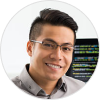
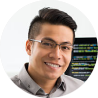
Стилизовал изображение юзера на главной, стилизация кнопки назад

diff --git a/src/pages/User.js b/src/pages/User.js
@@ -3,6 +3,20 @@ import UserProfile from '../components/UserProfile';
 import BackLink from '../components/BackLink';
 import gql from 'graphql-tag';
 import { Query } from 'react-apollo';
+import styled from 'styled-components';
+
+const StyledUser = styled.div`
+  position: relative;
+  display: flex;
+  justify-content: center;
+  min-height: 100vh;
+  background-color: #fff;
+
+  .user-inner {
+    padding-top: 80px;
+    width: 500px;
+  }
+`;
 
 const GET_USER = gql`
   query User($id: Int!) {
@@ -23,15 +37,16 @@ const User = ({ match }) => {
   const id = parseInt(match.params.id, 10);
 
   return (
-    <div>
+    <StyledUser>
       <BackLink />
-      {/* TODO следать заглушку когда вводим id типа строка или не валидное число */}
-      <Query query={GET_USER} variables={{ id }}>
-        {({ loading, data }) => {
-          return loading ? null : <UserProfile user={data.user} />;
-        }}
-      </Query>
-    </div>
+      <div className="user-inner">
+        <Query query={GET_USER} variables={{ id }}>
+          {({ loading, data }) => {
+            return loading ? null : <UserProfile user={data.user} />;
+          }}
+        </Query>
+      </div>
+    </StyledUser>
   );
 };
 

diff --git a/src/components/BackLink.js b/src/components/BackLink.js
@@ -1,11 +1,41 @@
 import React from 'react';
 import { Link } from 'react-router-dom';
+import styled from 'styled-components';
+import BackIcon from './BackIcon';
+
+const StyledBackLink = styled.div`
+  position: absolute;
+  left: 40px;
+  top: 30px;
+
+  a {
+    display: flex;
+    align-items: center;
+    text-decoration: none;
+    color: #000;
+  }
+
+  .back-icon {
+    margin-right: 10px;
+  }
+
+  .back-text {
+    font-weight: 700;
+    font-size: 18px;
+    line-height: 21px;
+  }
+`;
 
 const BackLink = props => {
   return (
-    <Link to="/">
-      <div>Back</div>
-    </Link>
+    <StyledBackLink>
+      <Link to="/">
+        <div className="back-icon">
+          <BackIcon fill="#000" width={24} height={13} />
+        </div>
+        <div className="back-text">Back</div>
+      </Link>
+    </StyledBackLink>
   );
 };
 

diff --git a/src/components/BackIcon.js b/src/components/BackIcon.js
@@ -1,0 +1,18 @@
+import React from 'react';
+
+const BackIcon = ({ width, height, fill }) => {
+  return (
+    <svg
+      width={width}
+      height={height}
+      viewBox={`0 0 ${width} ${height}`}
+      fill={fill}
+      xmlns="http://www.w3.org/2000/svg"
+    >
+      <line x1="24" y1="6.5" x2="4" y2="6.5" stroke={fill} />
+      <path d="M8.52372e-07 6.5L6.75 0.870835L6.75 12.1292L8.52372e-07 6.5Z" fill={fill} />
+    </svg>
+  );
+};
+
+export default BackIcon;

diff --git a/src/components/UserCard.js b/src/components/UserCard.js
@@ -22,6 +22,8 @@ const StyledUserCard = styled.div`
 
   .user-image {
     margin-bottom: 22px;
+    border: 1px solid #e1e1e1;
+    border-radius: 50%;
     width: 100px;
     height: 100px;
 
